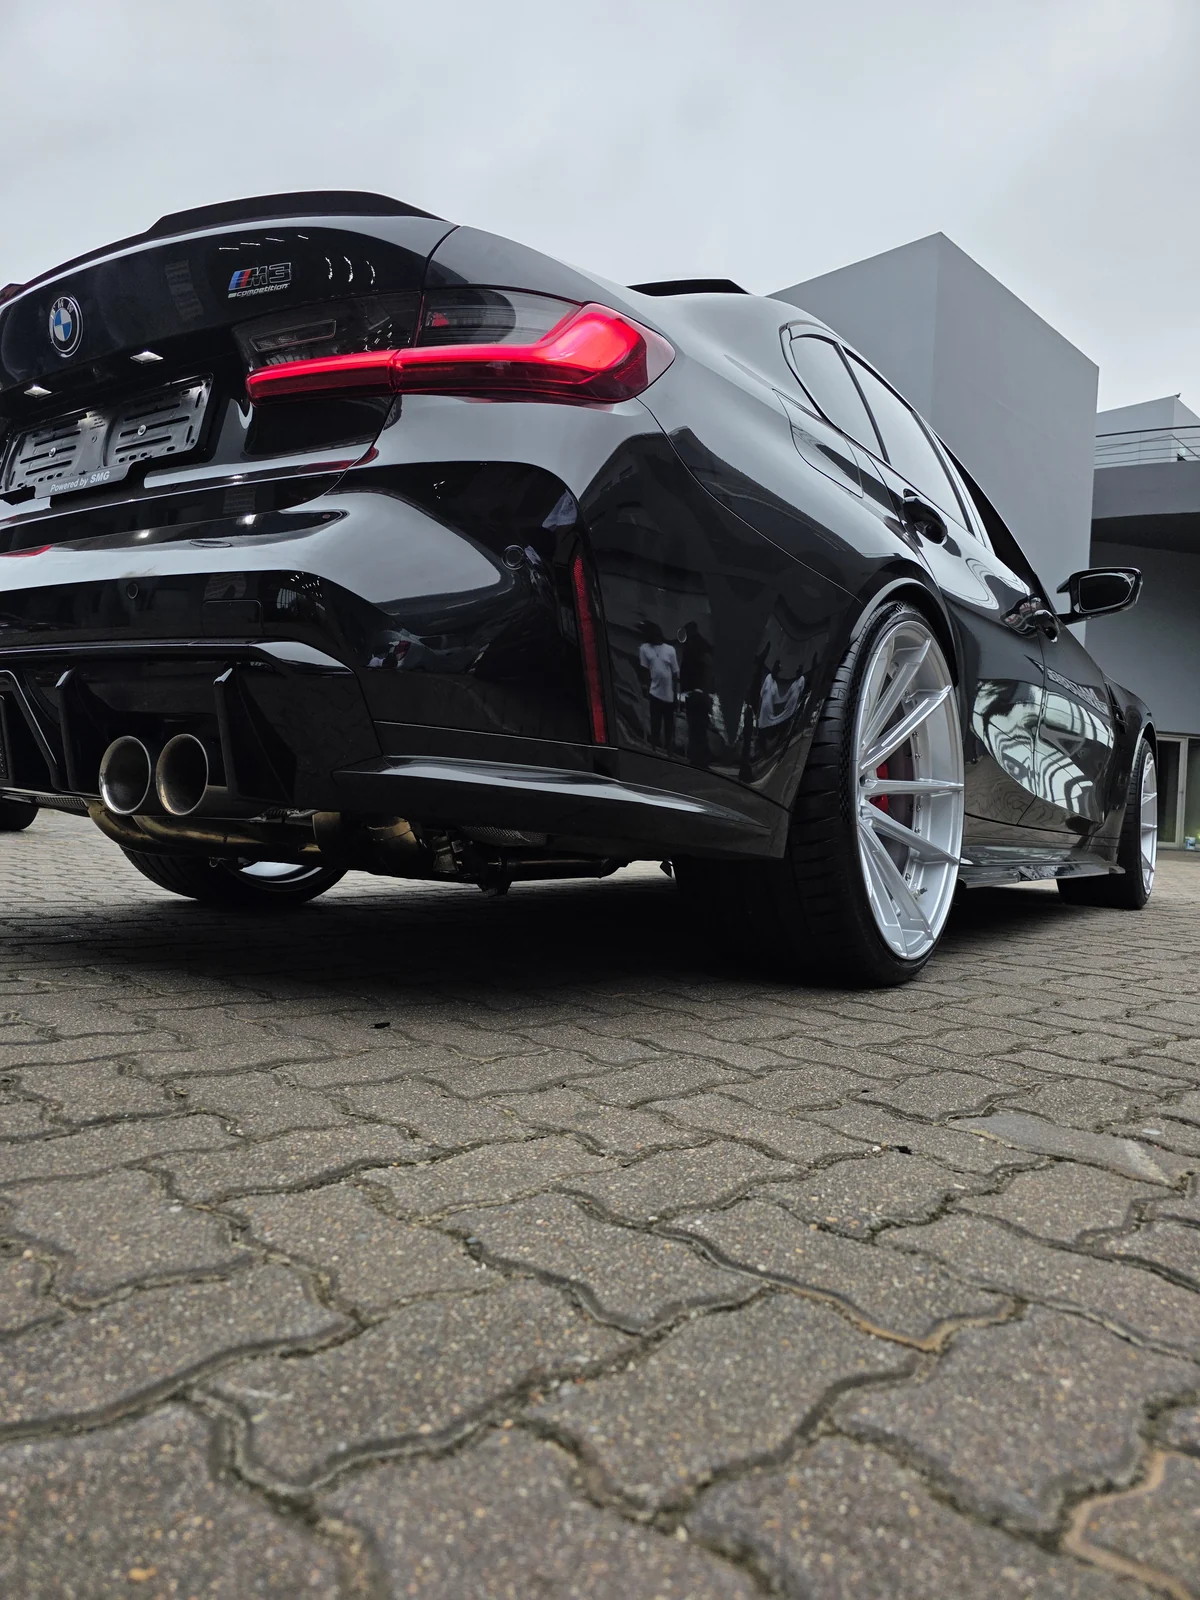
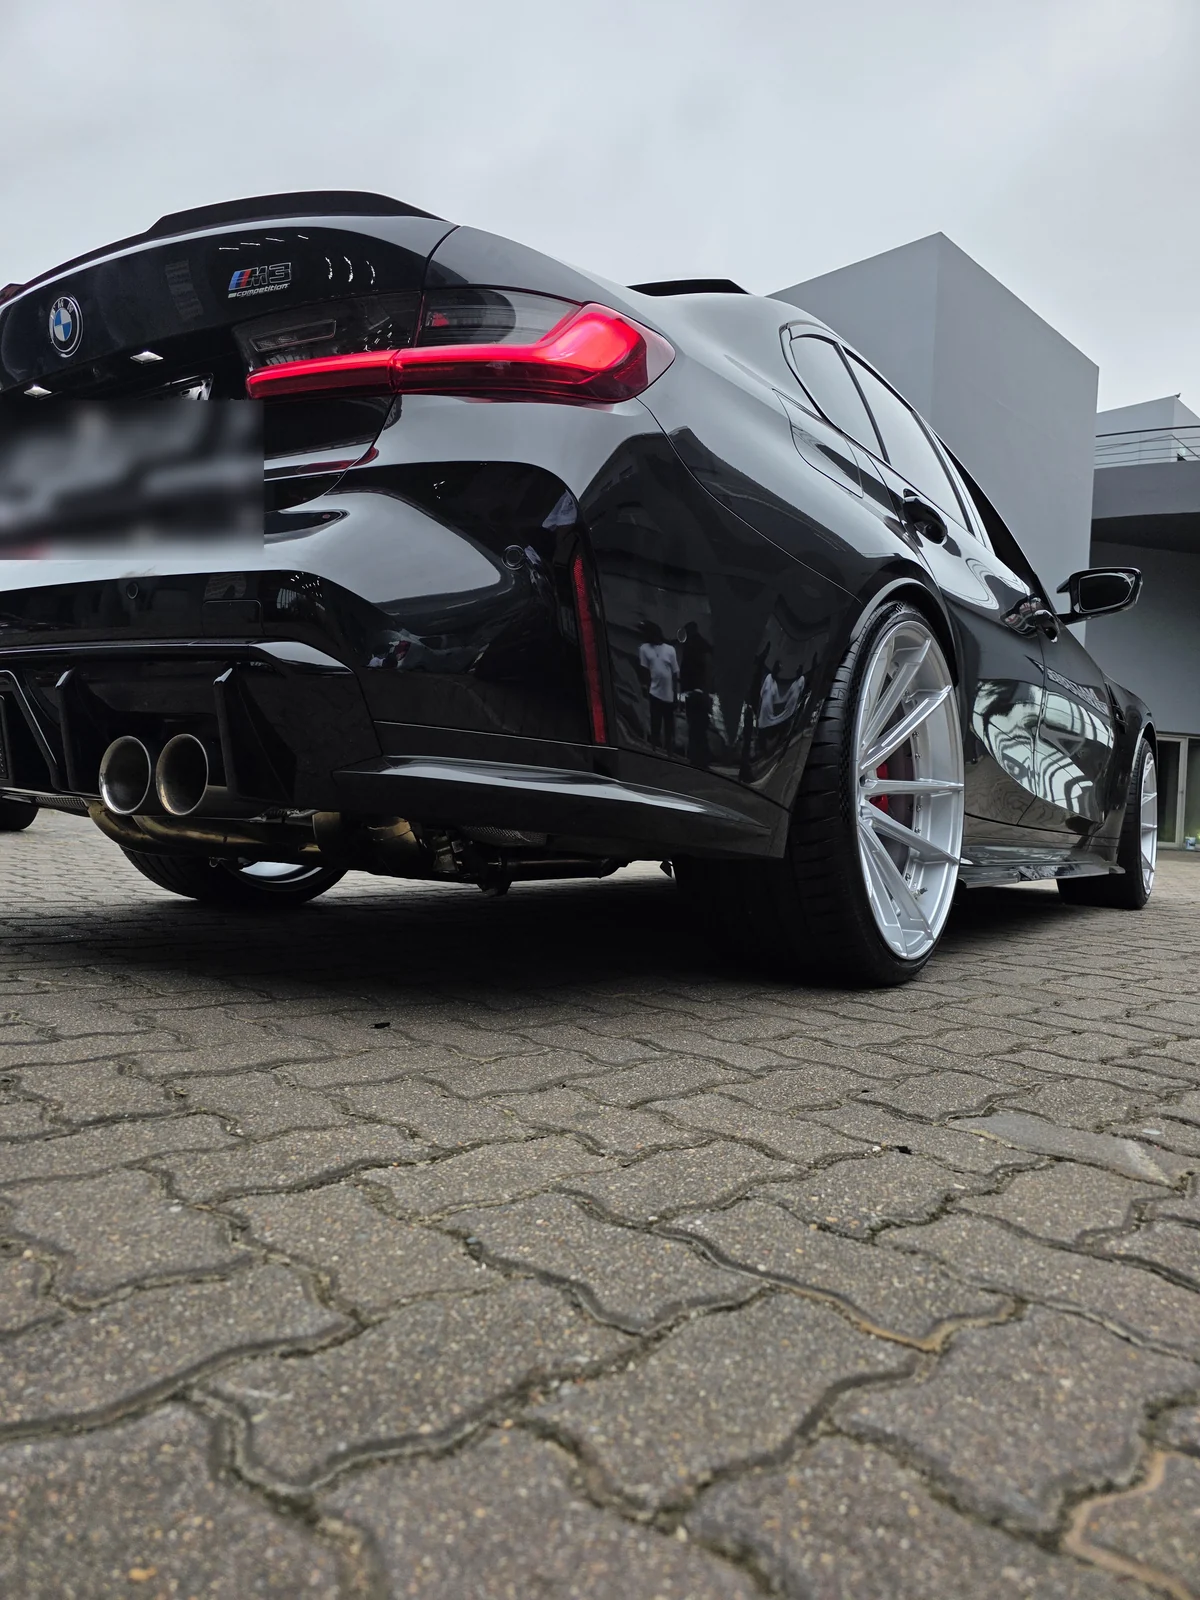
Installs: pixelate number plates in the customers' own photos
The studio renders carry no number plate, so the owner's photo shown as the third image
should not either. Each job in jobs.json now lists `plates`, the plate boxes as
[left, top, right, bottom] in percent of the EXIF-rotated photo ([] when none is visible),
and build_site_data.py pixelates and softens those areas before writing original.webp.
Fourteen of the twenty-two photos showed a plate, including one on another car in the
background; every box was checked against the published image.

Claude-Session: https://claude.ai/code/session_015obiwYgY2qyf31n7wnaxXs

Changed region(s): [[0.0, 0.25, 0.2158, 0.375]]

diff --git a/scripts/fitment-reshoot/build_site_data.py b/scripts/fitment-reshoot/build_site_data.py
@@ -13,9 +13,13 @@ Each published install gets three images in public/assets/fitments/<slug>/:
                             edge, all metadata (GPS, device) stripped (+ original_800.webp)
 The original is written from --rawdir when the source file is there; otherwise the copy already in
 the site is kept. HEIC originals need `pip install pillow-heif`.
+
+Number plates are pixelated: each job lists `plates`, boxes as [left, top, right, bottom] in
+percent of the EXIF-rotated photo (the renders drop plates entirely, so the published photo
+should not show them either). A job with no visible plate carries an empty list.
 """
 import argparse, json, os, shutil, sys
-from PIL import Image, ImageOps
+from PIL import Image, ImageFilter, ImageOps
 
 try:  # iPhone HEIC originals
     from pillow_heif import register_heif_opener
@@ -43,9 +47,23 @@ if args.approved and os.path.exists(args.approved):
     approved = {l.strip() for l in open(args.approved) if l.strip() and not l.startswith("#")}
 
 
-def write_original(src, dest):
-    """Rotate per EXIF, downscale and re-encode the phone photo without its metadata."""
-    im = ImageOps.exif_transpose(Image.open(src)).convert("RGB")
+def hide_plates(im, plates):
+    """Pixelate and soften each plate box (percent coordinates) so the characters cannot be read."""
+    w, h = im.size
+    for left, top, right, bottom in plates:
+        box = (int(w * left / 100), int(h * top / 100), int(w * right / 100), int(h * bottom / 100))
+        if box[2] <= box[0] or box[3] <= box[1]:
+            raise ValueError(f"empty plate box {[left, top, right, bottom]}")
+        region = im.crop(box)
+        coarse = region.resize((max(1, region.width // 24), max(1, region.height // 24)), Image.BILINEAR)
+        region = coarse.resize(region.size, Image.BILINEAR).filter(ImageFilter.GaussianBlur(max(2, region.width // 40)))
+        im.paste(region, box)
+    return im
+
+
+def write_original(src, dest, plates):
+    """Rotate per EXIF, hide plates, downscale and re-encode the phone photo without its metadata."""
+    im = hide_plates(ImageOps.exif_transpose(Image.open(src)).convert("RGB"), plates)
     for width in ORIGINAL_WIDTHS:
         r = im.copy(); r.thumbnail((width, width), Image.LANCZOS)
         name = "original.webp" if width == ORIGINAL_WIDTHS[0] else f"original_{width}.webp"
@@ -69,8 +87,10 @@ for j in jobs:
                 t = os.path.join(d, f"{slug}_{a}_800.webp")
                 if os.path.exists(t): shutil.copyfile(t, os.path.join(dest, f"{a}_800.webp"))
         raw = os.path.join(args.rawdir, j["sources"][0])
+        if "plates" not in j:
+            sys.exit(f"build_site_data: {slug}: add `plates` to jobs.json (a list of [left, top, right, bottom] percent boxes, or [])")
         if os.path.exists(raw):
-            write_original(raw, dest)
+            write_original(raw, dest, j["plates"])
         elif not os.path.exists(os.path.join(dest, "original.webp")) and not args.all:
             sys.exit(f"build_site_data: {slug}: original photo {j['sources'][0]} is neither in {args.rawdir} nor already in {dest}")
     except (OSError, ValueError) as e:  # ValueError: Pillow could not decode the photo

diff --git a/scripts/fitment-reshoot/README.md b/scripts/fitment-reshoot/README.md
@@ -23,8 +23,11 @@ Pipeline (Gemini 3 Pro Image via OpenRouter, ~US$0.14 per image at 2K):
 4. `python3 build_site_data.py --site ../.. --rawdir raw` copies the 1600px WebPs into
    `public/assets/fitments/<slug>/`, writes the phone photo there as `original.webp`
    (EXIF-rotated, 1600 px long edge, GPS and device metadata stripped, plus an 800 px
-   thumbnail) and regenerates `src/data/clientFitments.ts`. Installs whose renders are
-   already in the site are kept, so the data file can be regenerated without re-rendering.
+   thumbnail) and regenerates `src/data/clientFitments.ts`. Number plates are pixelated
+   from the `plates` boxes in `jobs.json` ([left, top, right, bottom] in percent of the
+   rotated photo; `[]` when none is visible), since the renders carry no plate either.
+   Installs whose renders are already in the site are kept, so the data file can be
+   regenerated without re-rendering.
    HEIC phone photos need `pip install pillow-heif`; `raw/`, `out/` and `logs/` are
    git-ignored.
 
